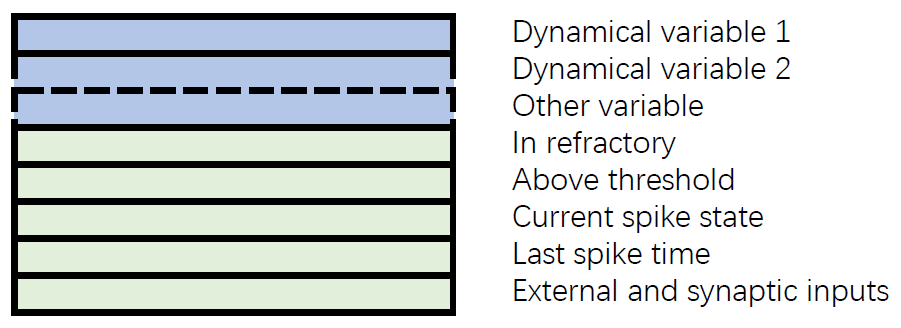
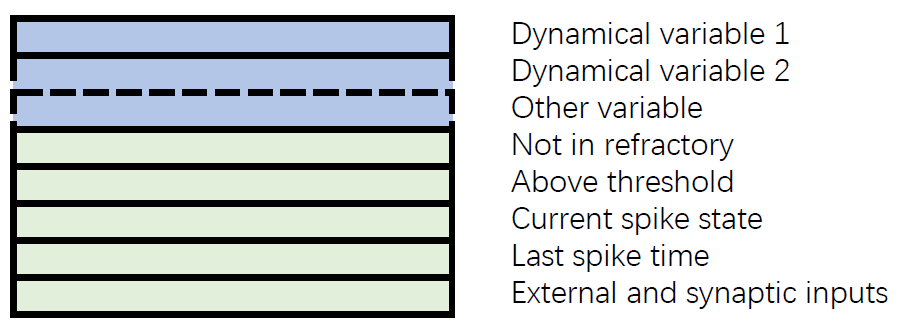
update benchmark

diff --git a/npbrain/neurons/Izhikevich_model.py b/npbrain/neurons/Izhikevich_model.py
@@ -112,26 +112,27 @@ def Izhikevich(geometry, mode=None, method=None, a=0.02, b=0.20, c=-65., d=8.,
 
     if ref > 0.:
         def update_state(neu_state, t):
-            in_ref = (t - neu_state[-2]) <= ref
+            not_ref = (t - neu_state[-2]) > ref
             V, u, Isyn = neu_state[0], neu_state[1], neu_state[-1]
             u_new = int_u(u, t, V)
             V_new = int_V(V, t, u, Isyn)
-            in_ref_idx = np.where(in_ref)[0]
-            u_new[in_ref_idx] = u[in_ref_idx]
-            V_new[in_ref_idx] = V[in_ref_idx]
-            neu_state[0] = V_new
-            neu_state[1] = u_new
+            not_ref_idx = np.where(not_ref)[0]
+            for idx in not_ref_idx:
+                neu_state[0, idx] = V_new[idx]
+                neu_state[1, idx] = u_new[idx]
             spike_idx = judge_spike(neu_state, Vth, t)
-            neu_state[0][spike_idx] = c
-            neu_state[1][spike_idx] += d
-            neu_state[-5][spike_idx] = 1.
+            for idx in spike_idx:
+                neu_state[0, idx] = c
+                neu_state[1, idx] += d
+                neu_state[-5, idx] = 0.
     else:
         def update_state(neu_state, t):
             V, u, Isyn = neu_state[0], neu_state[1], neu_state[-1]
             neu_state[0] = int_V(V, t, u, Isyn)
             neu_state[1] = int_u(u, t, V)
             spike_idx = judge_spike(neu_state, Vth, t)
-            neu_state[0][spike_idx] = c
-            neu_state[1][spike_idx] += d
+            for idx in spike_idx:
+                neu_state[0, idx] = c
+                neu_state[1, idx] += d
 
     return Neurons(**locals())

diff --git a/npbrain/neurons/LIF_model.py b/npbrain/neurons/LIF_model.py
@@ -54,18 +54,19 @@ def LIF(geometry, method=None, tau=10., Vr=0., Vth=10., noise=0., ref=0., name='
 
     if ref > 0.:
         def update_state(neu_state, t):
-            in_ref = (t - neu_state[-2]) <= ref
-            neu_state[-5] = in_ref
             # calculate states
-            V = int_f(neu_state[0], t, neu_state[-1])
-            # reset neuron values in refractory period
-            in_ref_idx = np.where(in_ref)[0]
-            V[in_ref_idx] = neu_state[0][in_ref_idx]
-            neu_state[0] = V
+            not_in_ref = (t - neu_state[-2]) > ref
+            neu_state[-5] = not_in_ref
+            V = neu_state[0]
+            Isyn = neu_state[-1]
+            V_new = int_f(V, t, Isyn)
+            in_ref_idx = np.where(not_in_ref < 1.)[0]
+            V_new[in_ref_idx] = V[in_ref_idx]
+            neu_state[0] = V_new
             # get spikes
             spike_idx = judge_spike(neu_state, Vth, t)
             neu_state[0][spike_idx] = Vr
-            neu_state[-5][spike_idx] = 1.
+            neu_state[-5][spike_idx] = 0.
     else:
         def update_state(neu_state, t):
             neu_state[0] = int_f(neu_state[0], t, neu_state[-1])

diff --git a/examples/benchmark/COBA_npbrian.py b/examples/benchmark/COBA_npbrian.py
@@ -81,17 +81,17 @@ def Synapse(pre, post, delay=None, name='nromal_synapse'):
         spike_idx = np.where(spike > 0.)[0]
         # get post-synaptic values
         g = np.zeros(num_post * 2)
-        g2 = np.zeros(num_post)
         for i_ in spike_idx:
             if i_ < num_exc:
                 idx = exc_anchors[:, i_]
                 exc_post_idx = exc_post[idx[0]: idx[1]]
-                g[exc_post_idx] += we
+                for idx in exc_post_idx:
+                    g[idx] += we
             else:
                 idx = inh_anchors[:, i_]
                 inh_post_idx = inh_post[idx[0]: idx[1]]
-                g2[inh_post_idx] += wi
-        g[num_post:] = g2
+                for idx in inh_post_idx:
+                    g[idx + num_post] += wi
         return g
 
     def output_synapse(syn_state, index2var, post_neu_state):

diff --git a/examples/benchmark/CUBA_npbrain.py b/examples/benchmark/CUBA_npbrain.py
@@ -70,17 +70,17 @@ def Synapse(pre, post, delay=None):
         spike_idx = np.where(syn_state[0][-1] > 0)[0]
         # get post-synaptic values
         g = np.zeros(num_post * 2)
-        g2 = np.zeros(num_post)
         for i_ in spike_idx:
             if i_ < num_exc:
                 idx = exc_anchors[:, i_]
                 exc_post_idx = exc_post[idx[0]: idx[1]]
-                g[exc_post_idx] += we
+                for idx in exc_post_idx:
+                    g[idx] += we
             else:
                 idx = inh_anchors[:, i_]
                 inh_post_idx = inh_post[idx[0]: idx[1]]
-                g2[inh_post_idx] += wi
-        g[num_post:] = g2
+                for idx in inh_post_idx:
+                    g[idx + num_post] += wi
         return g
 
     def output_synapse(syn_state, var_index, post_neu_state):

diff --git a/npbrain/synapses/ordinary_synapses.py b/npbrain/synapses/ordinary_synapses.py
@@ -59,7 +59,8 @@ def VoltageJumpSynapse(pre, post, weights, connection, delay=None, name='Voltage
         def output_synapse(syn_state, var_index, post_neu_state):
             output_idx = var_index[-2]
             g_val = syn_state[output_idx[0]][output_idx[1]]
-            post_neu_state[0] += (g_val * (1. - post_neu_state[-5]))
+            for idx in range(num_post):
+                post_neu_state[0, idx] += g_val[idx] * post_neu_state[-5, idx]
     else:
         def output_synapse(syn_state, var_index, post_neu_state):
             output_idx = var_index[-2]

diff --git a/examples/from_papers/1999_LIF_global_oscillations.py b/examples/from_papers/1999_LIF_global_oscillations.py
@@ -21,7 +21,7 @@ theta = 20
 tau = 20
 delta = 2
 taurefr = 2
-duration = 1000
+duration = 100
 C = 1000
 N = 5000
 sparseness = float(C) / N
@@ -39,4 +39,4 @@ mon = nn.SpikeMonitor(lif)
 net = nn.Network(syn=syn, lif=lif, mon=mon)
 net.run(duration, inputs=[lif, muext], report=True)
 
-# nn.visualize.plot_raster(mon, show=True)
+nn.visualize.plot_raster(mon, show=True)
